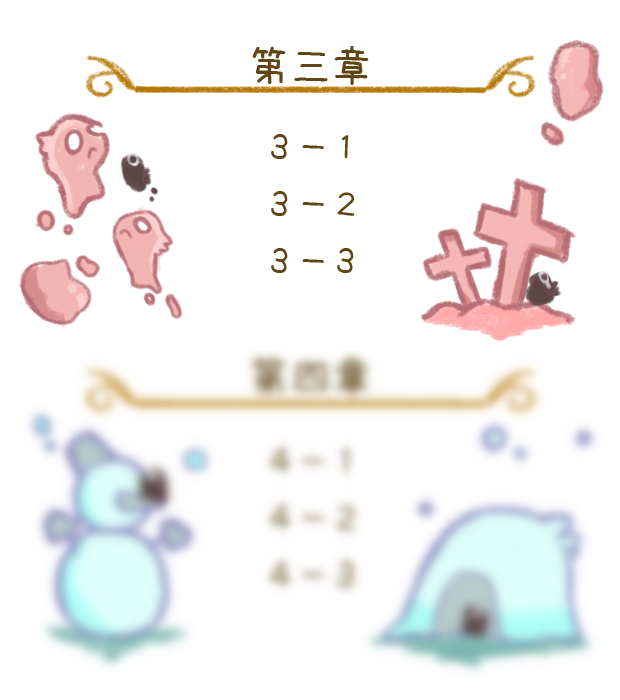
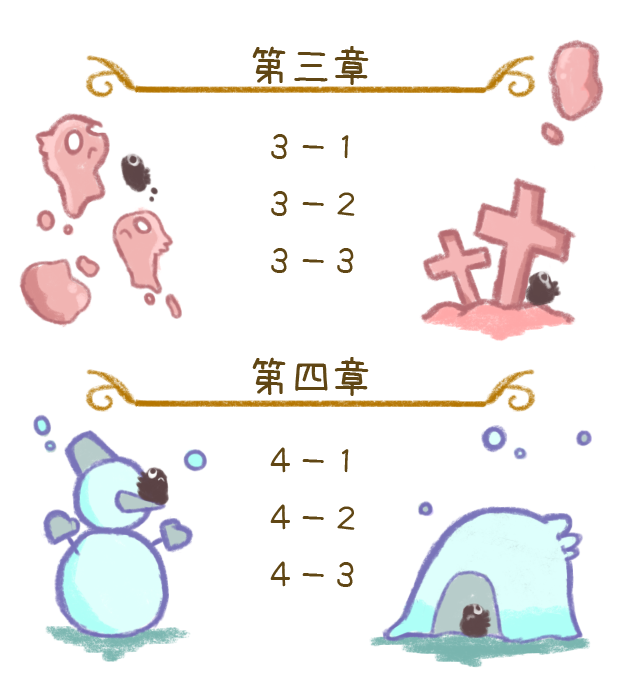
ステージセレクトロック解除

diff --git a/scene_main.cpp b/scene_main.cpp
@@ -65,8 +65,9 @@ void SceneMain::update()
 	{
 	case STEP::INIT:
 		//init();
+		++m_timer;
 		pBook->update();
-		if (!pBook->m_pfMove)
+		if (!pBook->m_pfMove && m_timer > 20)
 		{
 			pBook->clearAll();
 			m_stageNO = 0;
@@ -78,7 +79,7 @@ void SceneMain::update()
 				m_stageClearFlag[i] = false;
 			}
 			m_stageClearFlag[STAGE_MAX_NUM] = true;*/
-
+			m_timer = 0;
 			m_step = STEP::INIT + 1;
 		}
 		break;
@@ -316,10 +317,11 @@ void SceneMain::draw()
 	m_pBG->draw();
 
 	pBook->draw();
-	if (m_step >= STEP::BEGIN) {
+	pGameUIManager->draw();
+	//pEffectManager->draw();
+	if (m_step != STEP::INIT + 4) {
 		pEffectManager->draw();
 	}
-	pGameUIManager->draw();
 
 
 #ifdef  DEBUG
@@ -329,12 +331,15 @@ void SceneMain::draw()
 
 #endif //  DEBUG
 
+	if (m_step == STEP::INIT) {
+		drawRectangle(0, 0, SCREEN_WIDTH, SCREEN_HEIGHT, 0, 0x000000FF & (unsigned int)((20 - m_timer) / 20.0f * 255));
+	}
 
 }
 
 bool SceneMain::pause()
 {
-	if ((KEY_TRACKER.pressed.Space || PAD_TRACKER.menu == PAD_TRACKER.PRESSED) && m_step >= STEP::BEGIN)
+	if ((KEY_TRACKER.pressed.Space || PAD_TRACKER.menu == PAD_TRACKER.PRESSED) && m_step > STEP::INIT && pBook->m_isOpened)
 	{
 		m_isPaused = true;
 	}
@@ -420,7 +425,7 @@ void SceneMain::gameMain()
 			m_stageNO++;
 			if (m_stageNO >= STAGE_MAX_NUM)
 			{
-				m_stageNO = STAGE_SELECT_MAX_NUM;
+				m_stageNO = /*STAGE_SELECT_MAX_NUM*/0;
 			}
 			if (m_stageClearFlag[STAGE_MAX_NUM] == true) {
 				for (int i = 1; i < STAGE_MAX_NUM; i++) {
@@ -434,7 +439,7 @@ void SceneMain::gameMain()
 				m_stageNO = 0;
 				pStageManager->init(m_stageNO);
 				pBook->m_pfMove = &Book::finishReading;
-				m_step = STEP::INIT/* + 1*/;
+				m_step = STEP::INIT + 1;
 			}
 			else
 			{
@@ -450,7 +455,12 @@ void SceneMain::gameMain()
 				pBook->m_pfMove = &Book::turnPages;
 				pBook->m_targetPaperNO = START_PAGINATION / 2;
 				pBook->initStartPaper(START_PAGINATION / 2);
-				m_step = STEP::INIT + 4;
+				if (m_stageNO==0){
+					m_step = STEP::INIT + 1;
+				}
+				else {
+					m_step = STEP::INIT + 4;
+				}
 			}
 			m_timer = 0;
 		}

diff --git a/3dgp/framework.cpp b/3dgp/framework.cpp
@@ -210,6 +210,7 @@ int framework::run()
 
 	while (WM_QUIT != msg.message)
 	{
+		QueryPerformanceFrequency(&m_timeFreq);
 		if (PeekMessage(&msg, NULL, 0, 0, PM_REMOVE))
 		{
 			TranslateMessage(&msg);
@@ -438,8 +439,8 @@ void framework::render(float elapsed_time/*Elapsed seconds from last frame*/)
 	s_pDeviceContext->RSSetViewports(1, &e_camera.viewPort);
 
 	// Just clear the backbuffer
-	float ClearColor[4] = { 0.0f / 255.0f, 111.0f / 255.0f, 129.0f / 255.0f, 1.0f }; //red,green,blue,alpha
-	//float ClearColor[4] = { 255.0f / 255.0f, 255.0f / 255.0f, 255.0f / 255.0f, 1.0f }; //red,green,blue,alpha
+	//float ClearColor[4] = { 0.0f / 255.0f, 111.0f / 255.0f, 129.0f / 255.0f, 1.0f }; //red,green,blue,alpha
+	float ClearColor[4] = { 0.0f, 0.0f, 0.0f, 1.0f }; //red,green,blue,alpha
 	s_pDeviceContext->ClearRenderTargetView(s_pRenderTargetView, ClearColor);
 	s_pDeviceContext->ClearDepthStencilView(s_pDepthStencilView, D3D11_CLEAR_DEPTH | D3D11_CLEAR_STENCIL, 1.0f, 0);
 

diff --git a/3dgp/main.cpp b/3dgp/main.cpp
@@ -35,7 +35,8 @@ INT WINAPI wWinMain(HINSTANCE instance, HINSTANCE prev_instance, LPWSTR cmd_line
 	wcex.hInstance = instance;
 	wcex.hIcon = 0;
 	wcex.hCursor = LoadCursor(NULL, IDC_ARROW);
-	wcex.hbrBackground = (HBRUSH)(COLOR_WINDOW + 1);
+	//wcex.hbrBackground = (HBRUSH)(COLOR_WINDOW + 1);
+	wcex.hbrBackground = (HBRUSH)GetStockObject(BLACK_BRUSH);
 	wcex.lpszMenuName = NULL;
 	wcex.lpszClassName = _T("3dgp");
 	wcex.hIconSm = 0;

diff --git a/sprite_data.cpp b/sprite_data.cpp
@@ -429,7 +429,7 @@ SPRITE_LEFTTOP e_pSprStageSelection[] = {
 	SPRITE_LEFTTOP(-1, 0, 0, 0, 0),
 };
 
-SPRITE_CENTER e_sprStageSelected = SPRITE_CENTER(TEX_STAGE_SELECTED, 0, 0, 140, 35);
+SPRITE_CENTER e_sprStageSelected = SPRITE_CENTER(TEX_STAGE_SELECTED, 0, 0, 128, 17);
 
 // Effect関係
 SPRITE_CENTER e_sprHitObj = SPRITE_CENTER(TEX_SMOKE, 0, 0, 64, 64);

diff --git a/effect.h b/effect.h
@@ -3,7 +3,7 @@
 
 #include "obj2d.h"
 
-#define EFF_OBJ_MAX_NUM	(64)
+#define EFF_OBJ_MAX_NUM	(128)
 #define EFF_STAMP_MAX_NUM (5)
 
 
@@ -68,5 +68,7 @@ void effectMakeTranscription(Effect* a_pObj);
 void effectDamaging(Effect* a_pObj);
 void effectRunning(Effect* a_pObj);
 void effectOnBlurArea(Effect* a_pObj);
+
+
 
 #endif // !_EFFECT_H_

diff --git a/stage00_data.cpp b/stage00_data.cpp
@@ -51,13 +51,13 @@ int e_startPagination[] = {
 	49,//STAGE 3-2
 	55,//STAGE 3-3
 
-	//61,//STAGE 4-1
-	//67,//STAGE 4-2
-	//73,//STAGE 4-3
-	//
-	//79,//STAGE 5-1
-	//85,//STAGE 5-2
-	//91,//STAGE 5-3
+	61,//STAGE 4-1
+	67,//STAGE 4-2
+	73,//STAGE 4-3
+	
+	79,//STAGE 5-1
+	85,//STAGE 5-2
+	91,//STAGE 5-3
 
 	//129-4,
 	//135-4,

diff --git a/game.h b/game.h
@@ -9,7 +9,7 @@
 #include "./3dgp/template.h"
 #include "./3dgp/scene.h"
 
-//#define DEBUG
+#define DEBUG
 
 #include <vector>
 
